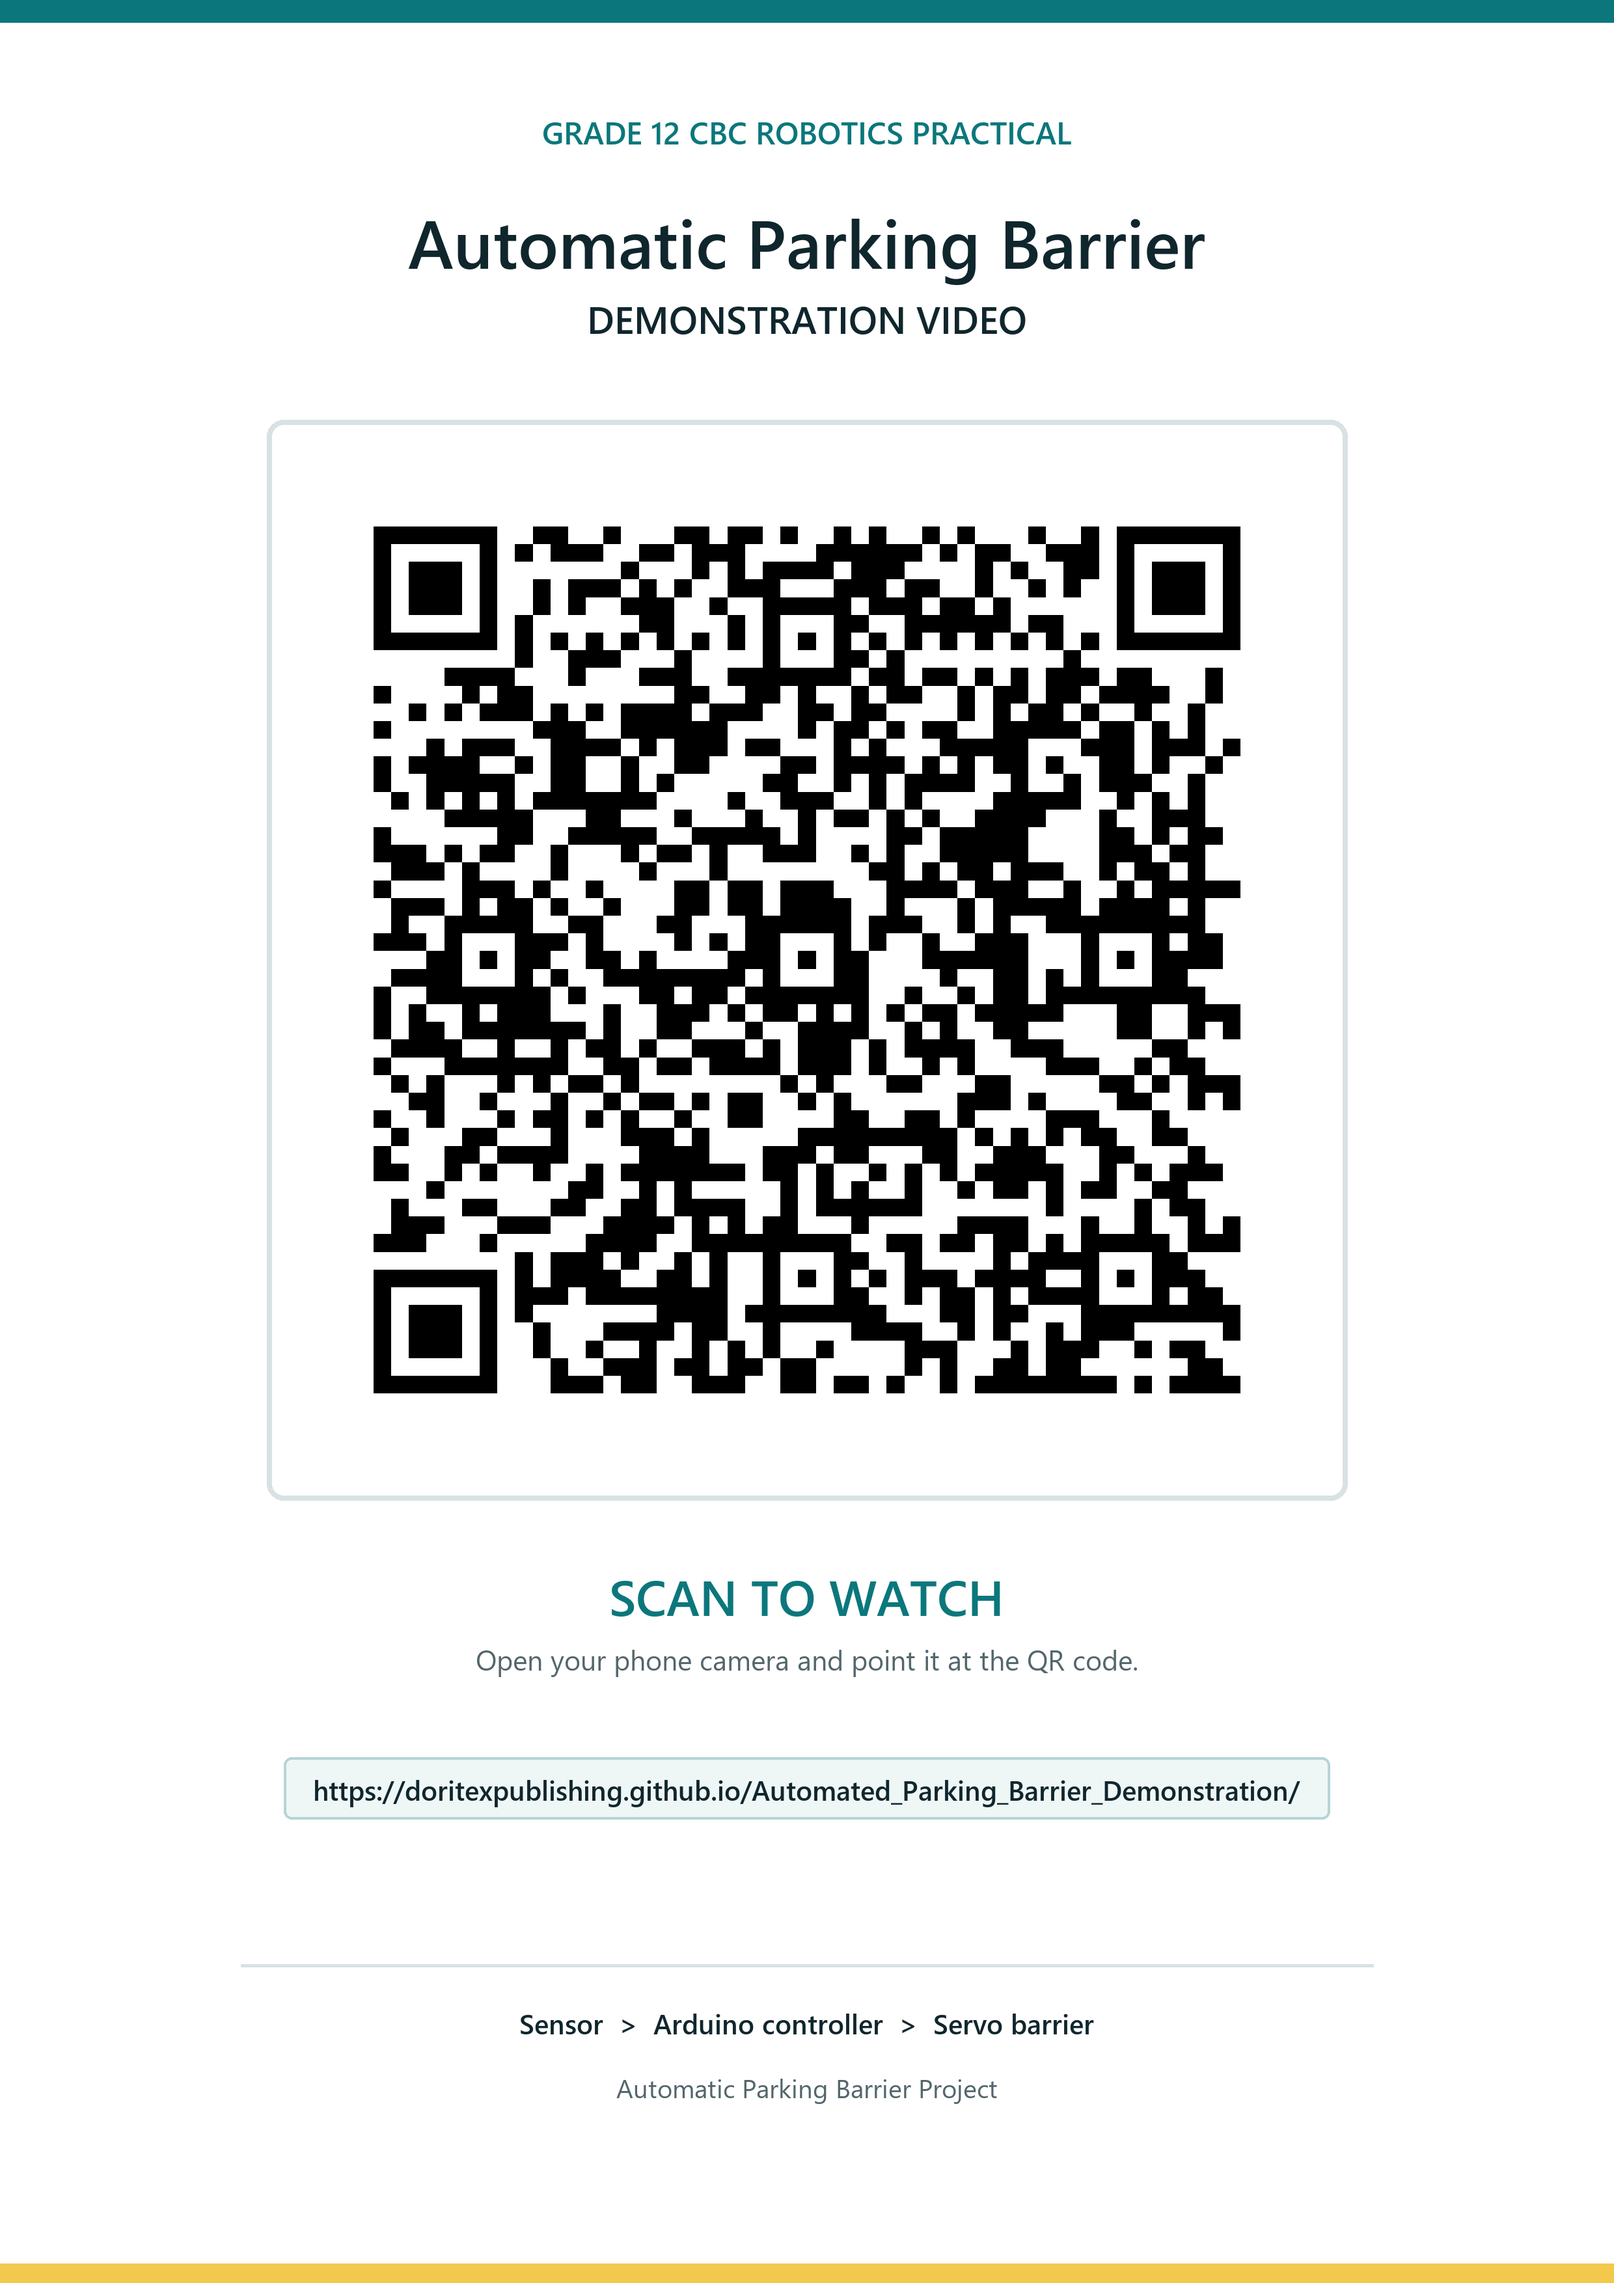
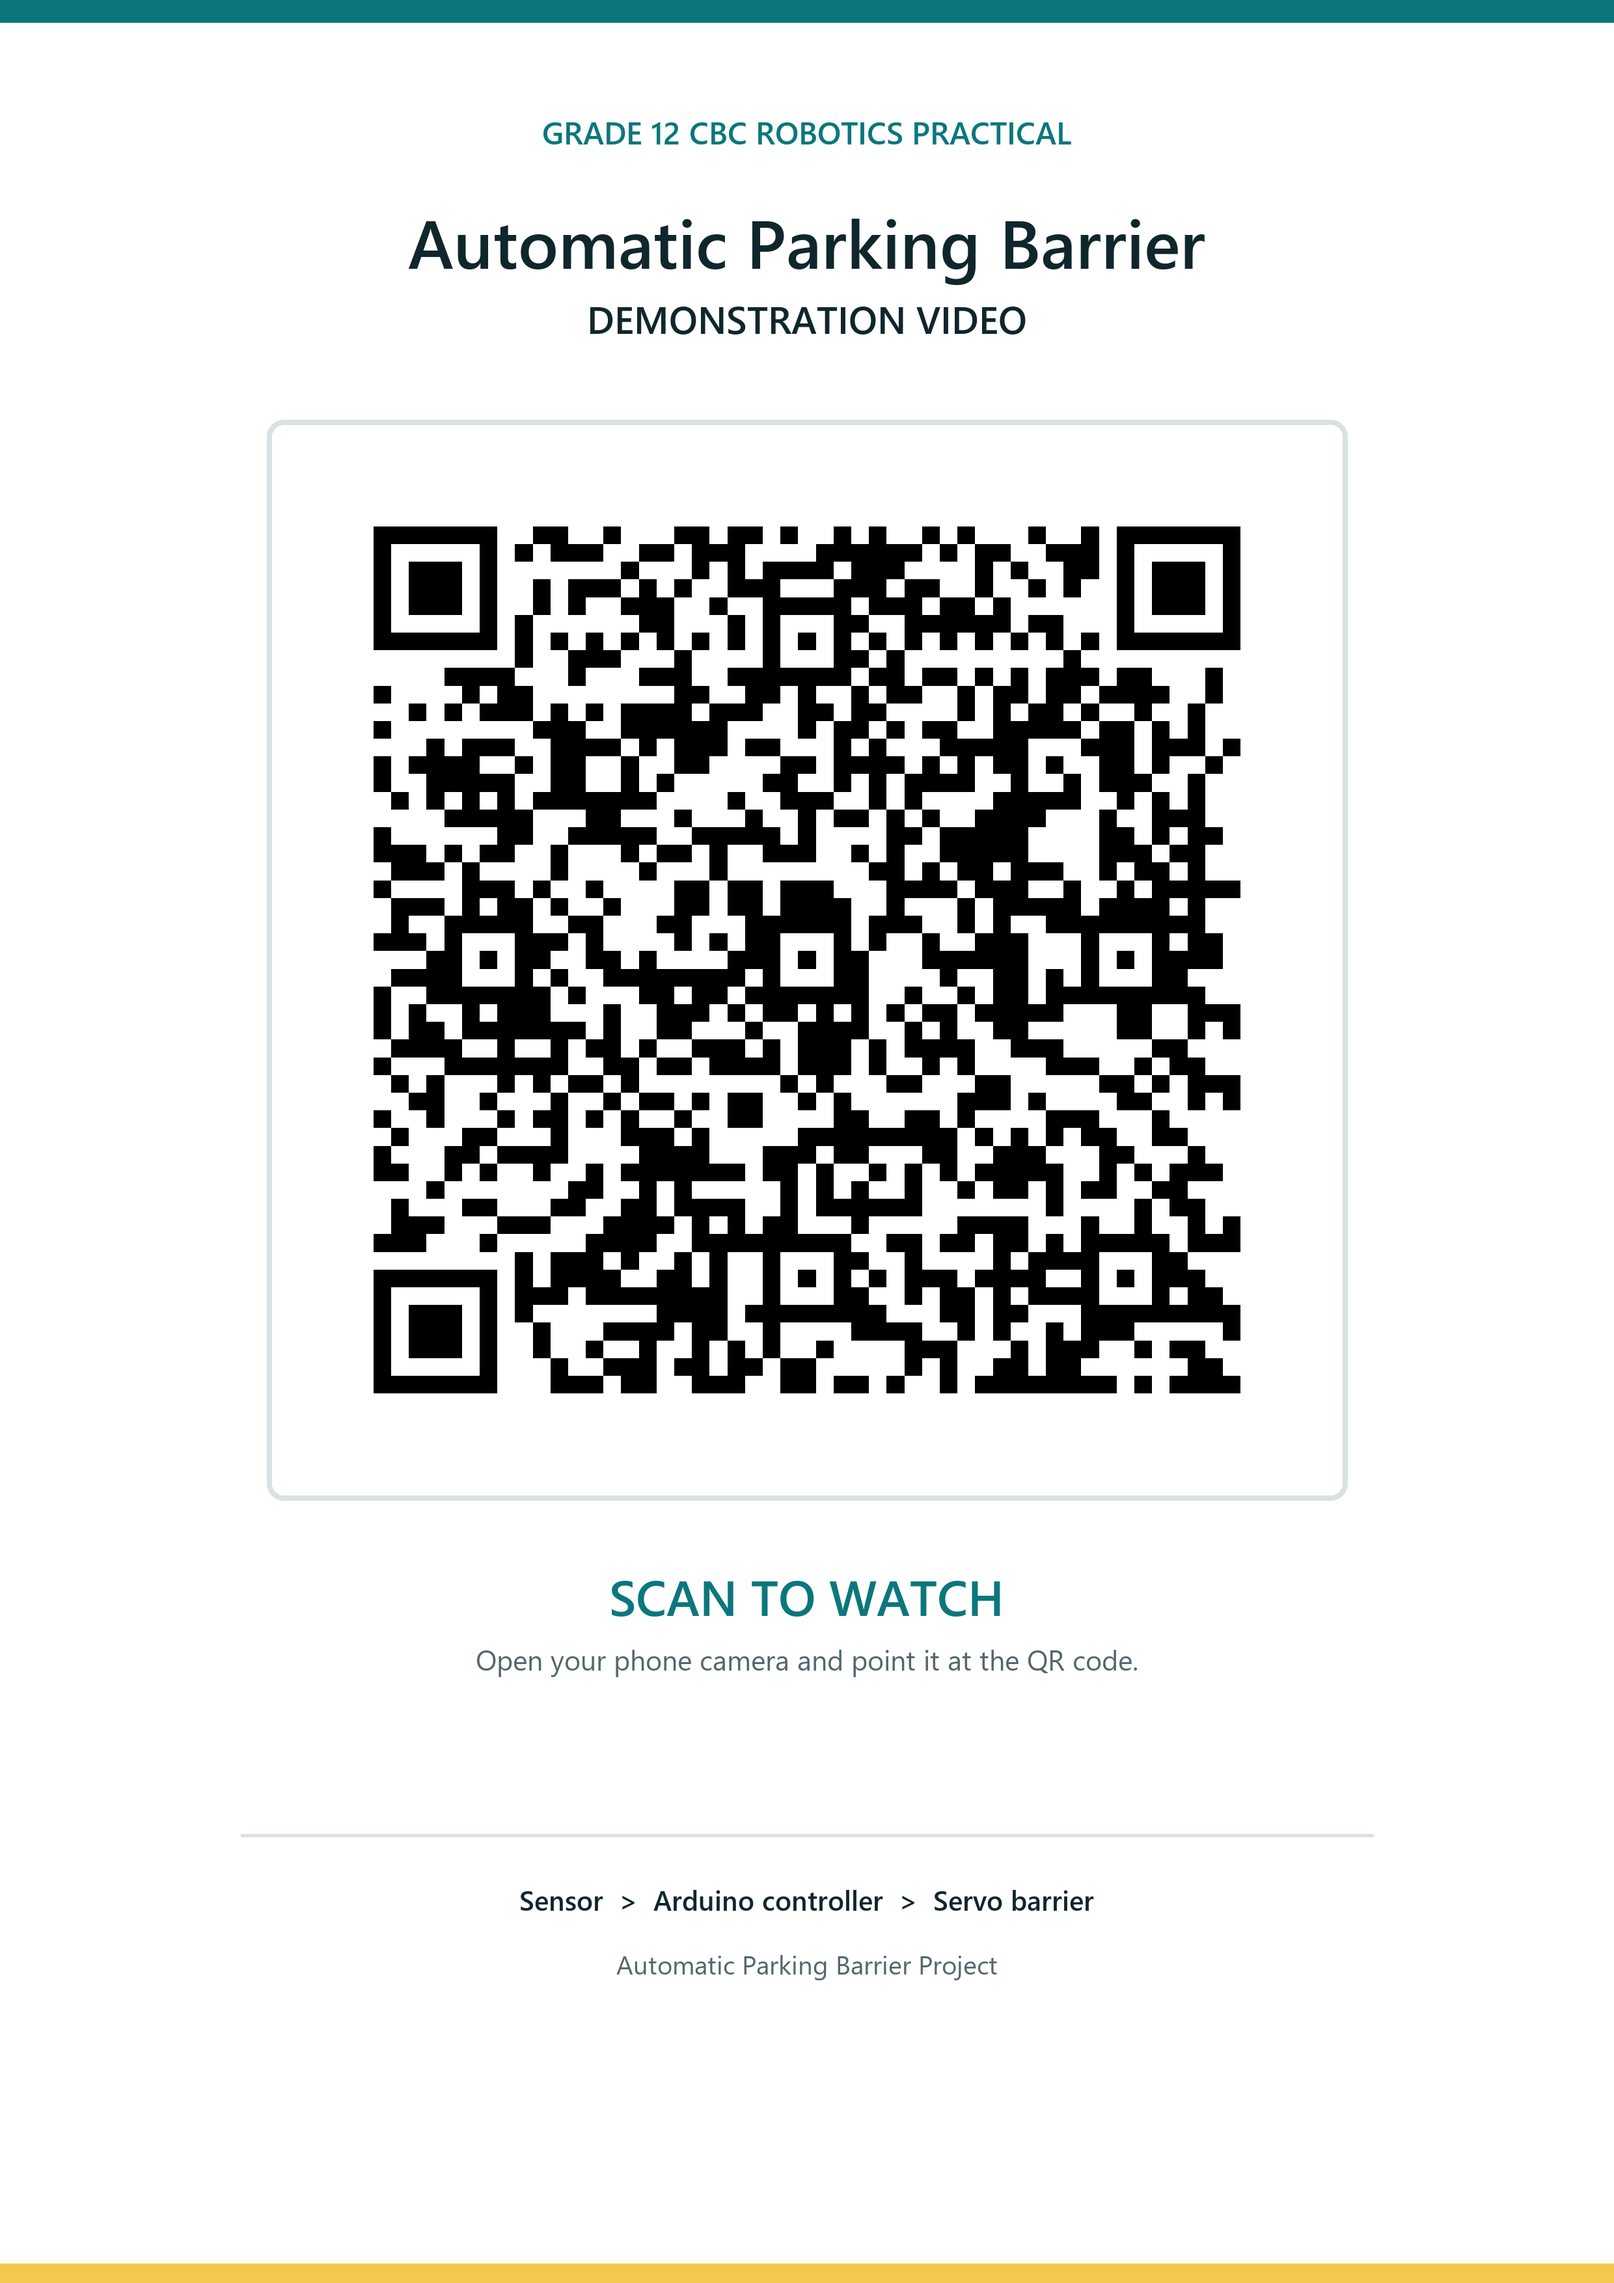
Remove company identification from demonstration

Changed region(s): [[0.1863, 0.7768, 0.8073, 0.9011], [0.3415, 0.87, 0.3726, 0.9011]]

diff --git a/index.html b/index.html
@@ -6,13 +6,9 @@
   <meta name="theme-color" content="#0b777c">
   <title>Automatic Parking Barrier Demonstration</title>
   <meta name="description" content="Grade 12 CBC Robotics practical demonstration: build an automatic parking barrier using Arduino Uno, HC-SR04 and an SG90 servo.">
-  <link rel="canonical" href="https://doritexpublishing.github.io/Automated_Parking_Barrier_Demonstration/">
   <meta property="og:title" content="Automatic Parking Barrier Demonstration">
   <meta property="og:description" content="A step-by-step Grade 12 CBC Robotics practical demonstration.">
   <meta property="og:type" content="video.other">
-  <meta property="og:url" content="https://doritexpublishing.github.io/Automated_Parking_Barrier_Demonstration/">
-  <meta property="og:image" content="https://doritexpublishing.github.io/Automated_Parking_Barrier_Demonstration/media/poster.png">
-  <meta property="og:video" content="https://doritexpublishing.github.io/Automated_Parking_Barrier_Demonstration/media/automatic-parking-barrier-demo.mp4">
   <style>
     :root {
       color-scheme: light;
@@ -65,7 +61,6 @@
       text-transform: uppercase;
     }
 
-    .repo-link,
     .download-link {
       color: var(--teal);
       font-weight: 700;
@@ -180,7 +175,6 @@
   <header>
     <div class="header-inner">
       <div class="course">Grade 12 CBC Robotics Practical</div>
-      <a class="repo-link" href="https://github.com/doritexpublishing/Automated_Parking_Barrier_Demonstration">GitHub repository</a>
     </div>
   </header>
 

diff --git a/README.md b/README.md
@@ -2,11 +2,9 @@
 
 Grade 12 CBC Robotics practical demonstration using an Arduino Uno, HC-SR04 ultrasonic sensor and SG90 servo.
 
-## Watch
+The project includes the narrated MP4, poster frame, English captions and a webpage for viewing the demonstration.
 
-[Open the demonstration video](https://doritexpublishing.github.io/Automated_Parking_Barrier_Demonstration/)
-
-The repository includes the narrated MP4, poster frame, English captions and a GitHub Pages deployment workflow.
+Scan the QR code below to open the demonstration.
 
 ![QR code for the demonstration](qr-code.png)
 
